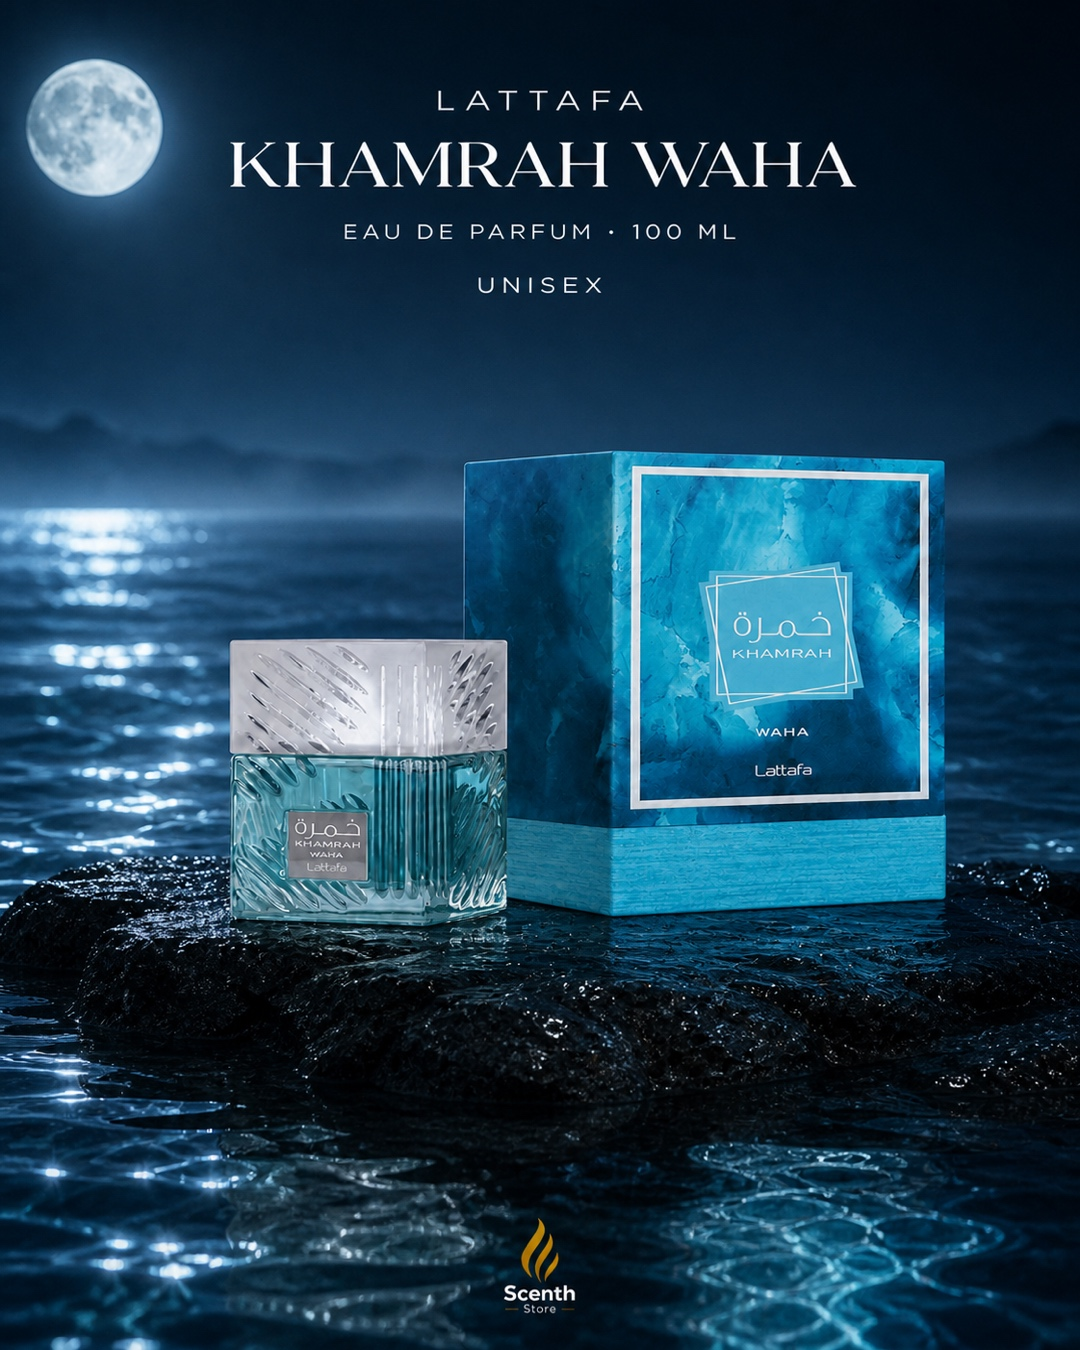
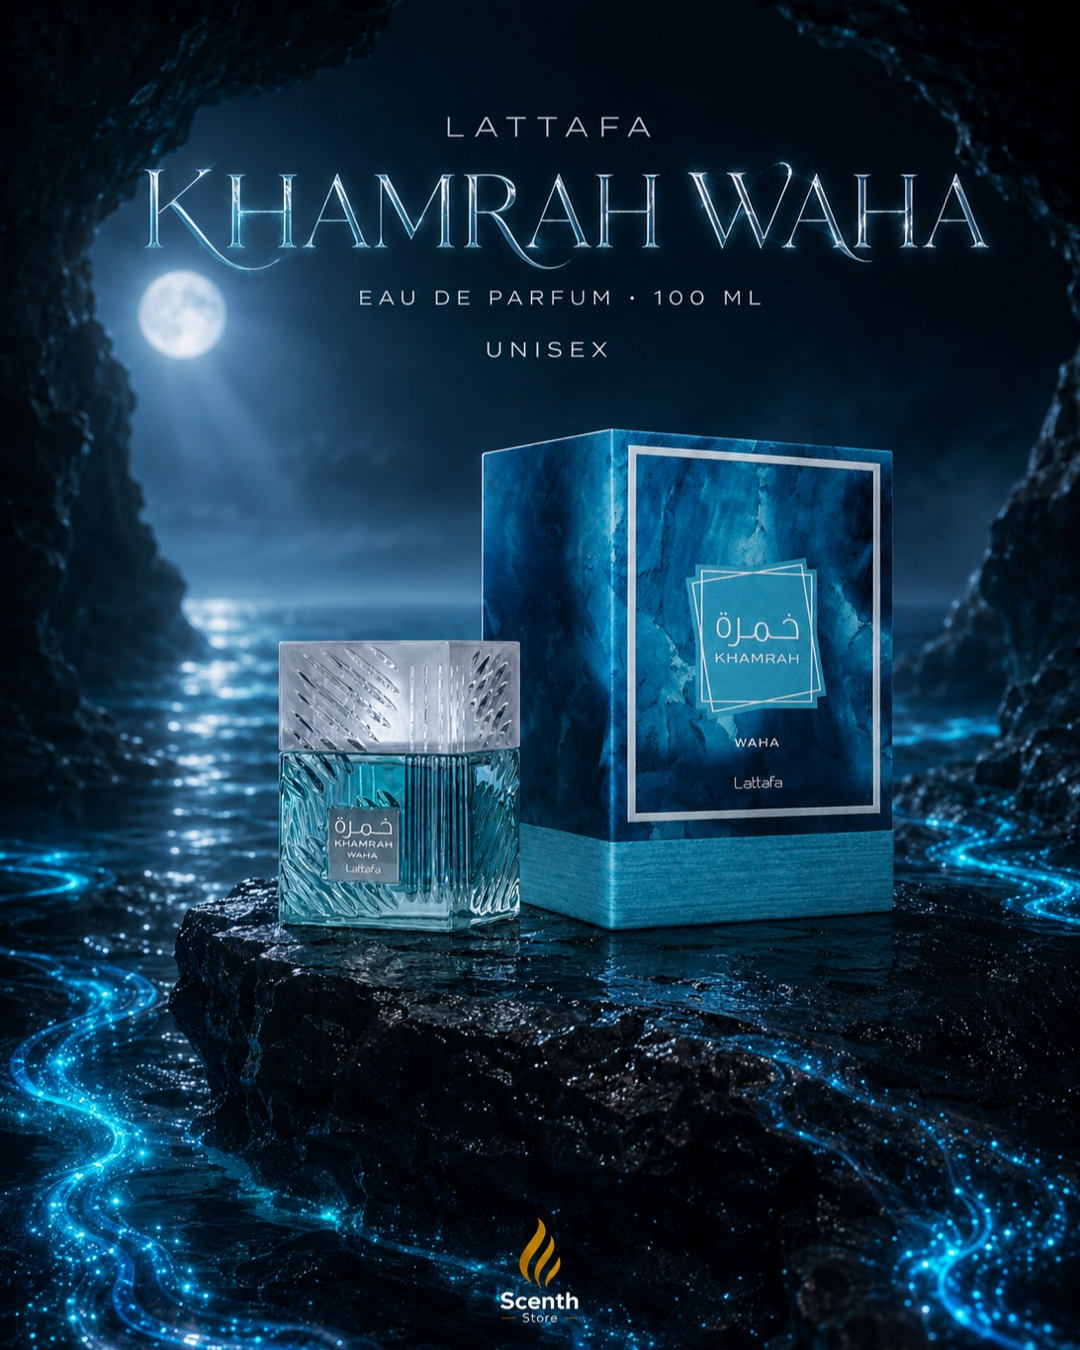
Renueva Waha y completa Odyssey Aqua

diff --git a/product-details.js b/product-details.js
@@ -135,6 +135,7 @@ const GENERATED_DETAIL_GALLERIES = {
     'armaf-club-de-nuit-intense-man': true,
     'armaf-odyssey-mandarin-sky': true,
     'armaf-odyssey-mandarin-sky-vintage': true,
+    'armaf-odyssey-aqua': true,
     'bharara-king-edp': true,
     'french-avenue-vulcan-feu': true,
     'asdaaf-ameerat-al-arab': false,
@@ -164,7 +165,7 @@ const GENERATED_DETAIL_GALLERIES = {
     'afnan-turathi-blue': true
 };
 
-const GENERATED_ASSET_VERSION = '20260905-1';
+const GENERATED_ASSET_VERSION = '20260906-1';
 
 Object.entries(GENERATED_DETAIL_GALLERIES).forEach(([slug, hasAlternative]) => {
     const current = window.CATALOG_DETAILS[slug] || {};
@@ -186,6 +187,7 @@ const UPDATED_PRODUCT_COVERS = [
     'al-haramain-amber-oud-aqua-dubai',
     'afnan-9-pm-rebel',
     'afnan-turathi-blue',
+    'armaf-odyssey-aqua',
     'bharara-king-edp',
     'lattafa-khamrah-waha',
     'rasasi-hawas-kobra'
@@ -199,16 +201,6 @@ UPDATED_PRODUCT_COVERS.forEach((slug) => {
         label: 'Presentación'
     });
 });
-
-window.CATALOG_DETAILS['armaf-odyssey-aqua'] = {
-    ...(window.CATALOG_DETAILS['armaf-odyssey-aqua'] || {}),
-    gallery: [
-        {
-            src: `images/detalles/armaf-odyssey-aqua/foto-nueva.jpg?v=${GENERATED_ASSET_VERSION}`,
-            label: 'Foto del producto'
-        }
-    ]
-};
 
 window.CATALOG_DETAILS['lattafa-fakhar-rose'] = {
     ...(window.CATALOG_DETAILS['lattafa-fakhar-rose'] || {}),
